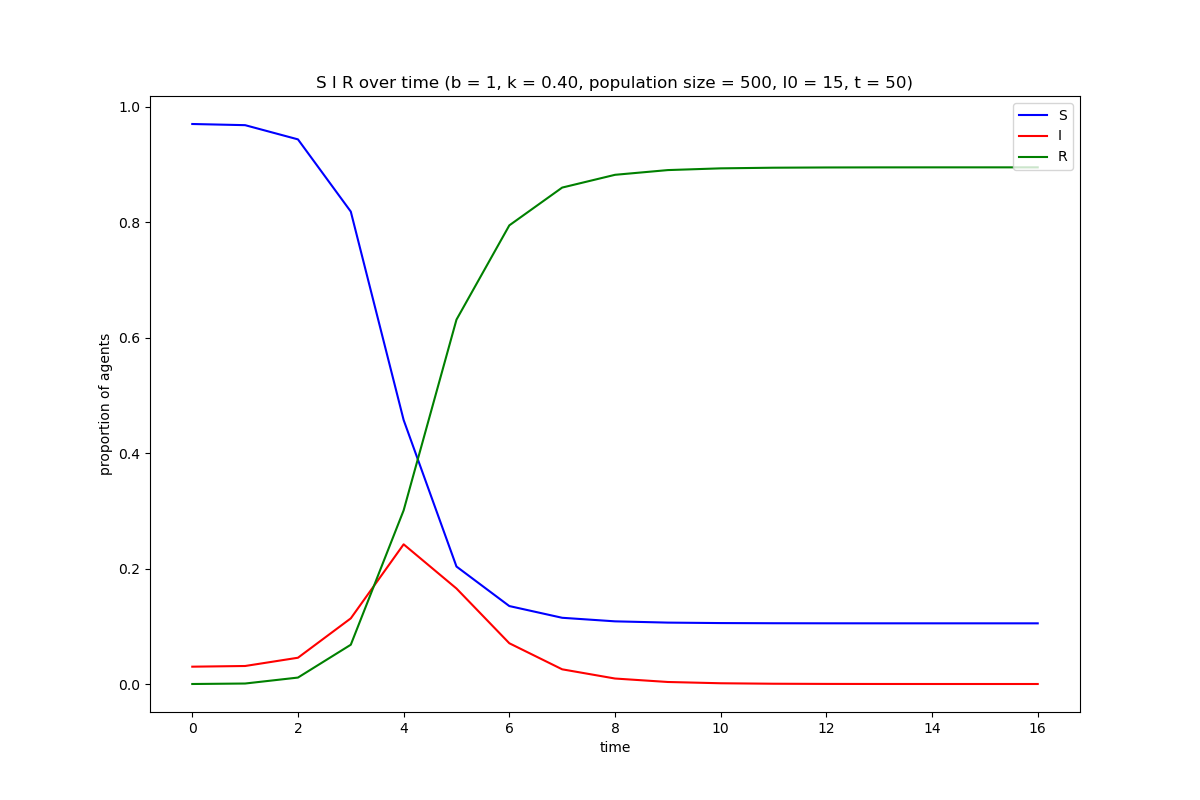
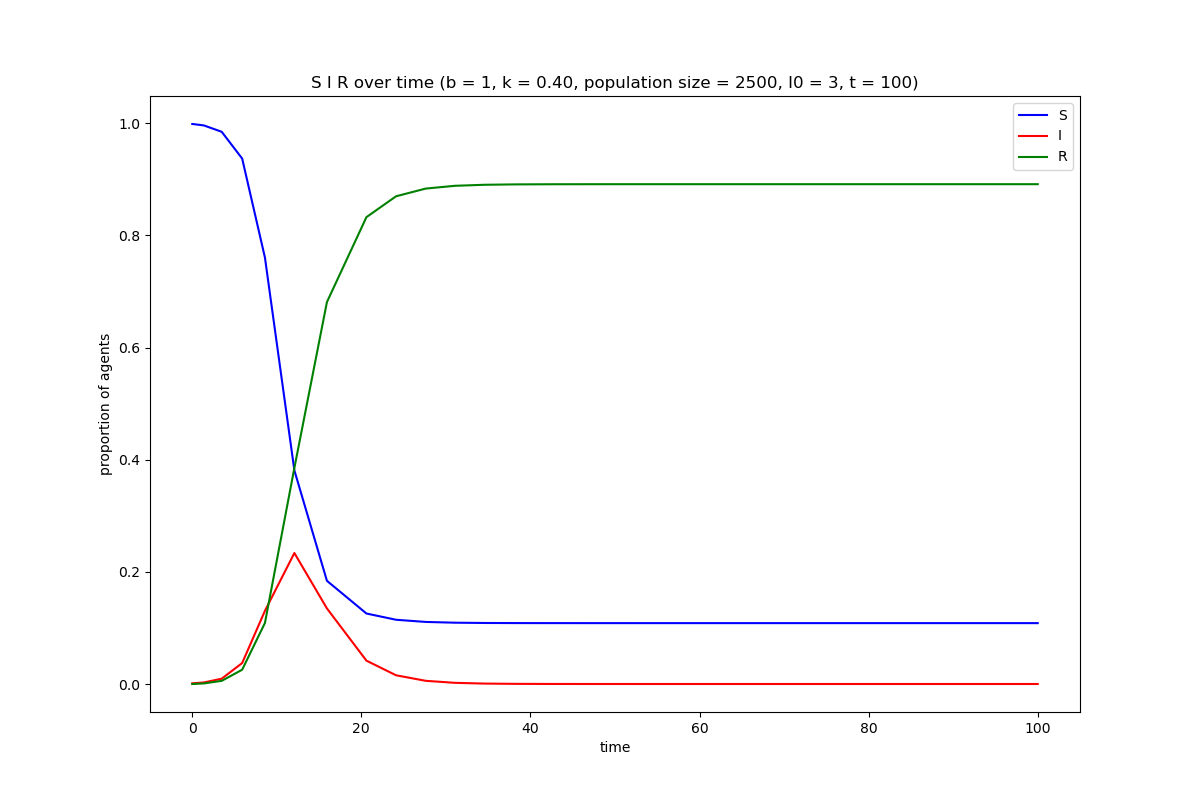
temp

diff --git a/Scripts/midterm_checkin_plots.py b/Scripts/midterm_checkin_plots.py
@@ -11,23 +11,25 @@ import matplotlib.pyplot as plt
 # fmt: on
 
 # parameters
-Population = 1000
-initial_infected = 10
+Population = 2500
+initial_infected = 3
 initial_proportion = initial_infected / Population
-time_span = 50
+time_span = 100
 
 
 def sim_ODE(i0, N, b, k, t):
     """
     returns array of arrays:
-        - first sub array is S
-        - second sub array is I
-        - third sub array is R
+        - first sub array is T
+        - second sub array is S
+        - third sub array is I
+        - fourthe sub array is R
     """
     sim = OdeSir(i0=i0, N=N, b=b, k=k)
     sim._infect(t=t)
     s, i, r = sim._give_values()
-    vals = np.array([s, i, r])
+    t = sim._give_time()
+    vals = np.array([t, s, i, r])
     return vals
 
 
@@ -40,17 +42,16 @@ f = sim_ODE(i0=initial_proportion, N=Population, b=1, k=0.3, t=time_span)
 g = sim_ODE(i0=initial_proportion, N=Population, b=1, k=0.35, t=time_span)
 h = sim_ODE(i0=initial_proportion, N=Population, b=1, k=0.4, t=time_span)
 
-
 # phase diagram for varied k using agent ODE model
 plt.figure(figsize=(12, 8))
-plt.plot(a[0], a[1], "blue")
-plt.plot(b[0], b[1], "red")
-plt.plot(c[0], c[1], "green")
-plt.plot(d[0], d[1], "yellow")
-plt.plot(e[0], e[1], "purple")
-plt.plot(f[0], f[1], "gray")
-plt.plot(g[0], g[1], "pink")
-plt.plot(h[0], h[1], "orange")
+plt.plot(a[1], a[2], "blue")
+plt.plot(b[1], b[2], "red")
+plt.plot(c[1], c[2], "green")
+plt.plot(d[1], d[2], "yellow")
+plt.plot(e[1], e[2], "purple")
+plt.plot(f[1], f[2], "gray")
+plt.plot(g[1], g[2], "pink")
+plt.plot(h[1], h[2], "orange")
 plt.legend(
     [
         "k=0.05",
@@ -75,9 +76,9 @@ plt.savefig("../doc/checkpoint/plots/PhasekODE.png")
 
 # S I R over time k = 0.05 using ODE model
 plt.figure(figsize=(12, 8))
-plt.plot(range(len(a[0])), a[0], "blue")
-plt.plot(range(len(a[0])), a[1], "red")
-plt.plot(range(len(a[0])), a[2], "green")
+plt.plot(a[0], a[1], "blue")
+plt.plot(a[0], a[2], "red")
+plt.plot(a[0], a[3], "green")
 plt.legend(["S", "I", "R"], loc="upper right")
 plt.xlabel("time")
 plt.ylabel("proportion of agents")
@@ -90,9 +91,9 @@ plt.savefig("../doc/checkpoint/plots/k05ODE.png")
 
 # S I R over time k = 0.40 using ODE model
 plt.figure(figsize=(12, 8))
-plt.plot(range(len(h[0])), h[0], "blue")
-plt.plot(range(len(h[0])), h[1], "red")
-plt.plot(range(len(h[0])), h[2], "green")
+plt.plot(h[0], h[1], "blue")
+plt.plot(h[0], h[2], "red")
+plt.plot(h[0], h[3], "green")
 plt.legend(["S", "I", "R"], loc="upper right")
 plt.xlabel("time")
 plt.ylabel("proportion of agents")
@@ -116,14 +117,14 @@ h = sim_ODE(i0=initial_proportion, N=Population, b=50, k=0.15, t=time_span)
 
 # phase diagram for varied b using agent ODE model
 plt.figure(figsize=(12, 8))
-plt.plot(a[0], a[1], "blue")
-plt.plot(b[0], b[1], "red")
-plt.plot(c[0], c[1], "green")
-plt.plot(d[0], d[1], "yellow")
-plt.plot(e[0], e[1], "purple")
-plt.plot(f[0], f[1], "gray")
-plt.plot(g[0], g[1], "pink")
-plt.plot(h[0], h[1], "orange")
+plt.plot(a[1], a[2], "blue")
+plt.plot(b[1], b[2], "red")
+plt.plot(c[1], c[2], "green")
+plt.plot(d[1], d[2], "yellow")
+plt.plot(e[1], e[2], "purple")
+plt.plot(f[1], f[2], "gray")
+plt.plot(g[1], g[2], "pink")
+plt.plot(h[1], h[2], "orange")
 plt.legend(
     ["b=1", "b=2", "b=3", "b=4", "b=5", "b=10", "b=20", "b=50"], loc="upper right"
 )
@@ -138,9 +139,9 @@ plt.savefig("../doc/checkpoint/plots/PhasebODE.png")
 
 # S I R over time b = 1 using ODE model
 plt.figure(figsize=(12, 8))
-plt.plot(range(len(a[0])), a[0], "blue")
-plt.plot(range(len(a[0])), a[1], "red")
-plt.plot(range(len(a[0])), a[2], "green")
+plt.plot(a[0], a[1], "blue")
+plt.plot(a[0], a[2], "red")
+plt.plot(a[0], a[3], "green")
 plt.legend(["S", "I", "R"], loc="upper right")
 plt.xlabel("time")
 plt.ylabel("proportion of agents")
@@ -153,9 +154,9 @@ plt.savefig("../doc/checkpoint/plots/b1ODE.png")
 
 # S I R over time b = 50 using ODE model
 plt.figure(figsize=(12, 8))
-plt.plot(range(len(h[0])), h[0], "blue")
-plt.plot(range(len(h[0])), h[1], "red")
-plt.plot(range(len(h[0])), h[2], "green")
+plt.plot(h[0], h[1], "blue")
+plt.plot(h[0], h[2], "red")
+plt.plot(h[0], h[3], "green")
 plt.legend(["S", "I", "R"], loc="upper right")
 plt.xlabel("time")
 plt.ylabel("proportion of agents")
@@ -179,14 +180,14 @@ h = sim_ODE(i0=initial_proportion * 25, N=Population, b=1, k=0.25, t=time_span)
 
 # phase diagram for varied I0 using agent ODE model
 plt.figure(figsize=(12, 8))
-plt.plot(a[0], a[1], "blue")
-plt.plot(b[0], b[1], "red")
-plt.plot(c[0], c[1], "green")
-plt.plot(d[0], d[1], "yellow")
-plt.plot(e[0], e[1], "purple")
-plt.plot(f[0], f[1], "gray")
-plt.plot(g[0], g[1], "pink")
-plt.plot(h[0], h[1], "orange")
+plt.plot(a[1], a[2], "blue")
+plt.plot(b[1], b[2], "red")
+plt.plot(c[1], c[2], "green")
+plt.plot(d[1], d[2], "yellow")
+plt.plot(e[1], e[2], "purple")
+plt.plot(f[1], f[2], "gray")
+plt.plot(g[1], g[2], "pink")
+plt.plot(h[1], h[2], "orange")
 plt.legend(
     [
         "I0={}".format(initial_infected),
@@ -211,9 +212,9 @@ plt.savefig("../doc/checkpoint/plots/PhaseI0ODE.png")
 
 # S I R over time I0 = initial_infected using ODE model
 plt.figure(figsize=(12, 8))
-plt.plot(range(len(a[0])), a[0], "blue")
-plt.plot(range(len(a[0])), a[1], "red")
-plt.plot(range(len(a[0])), a[2], "green")
+plt.plot(a[0], a[1], "blue")
+plt.plot(a[0], a[2], "red")
+plt.plot(a[0], a[3], "green")
 plt.legend(["S", "I", "R"], loc="upper right")
 plt.xlabel("time")
 plt.ylabel("proportion of agents")
@@ -226,9 +227,9 @@ plt.savefig("../doc/checkpoint/plots/I01ODE.png")
 
 # S I R over time  I0 = initial_infected*25 using ODE model
 plt.figure(figsize=(12, 8))
-plt.plot(range(len(h[0])), h[0], "blue")
-plt.plot(range(len(h[0])), h[1], "red")
-plt.plot(range(len(h[0])), h[2], "green")
+plt.plot(h[0], h[1], "blue")
+plt.plot(h[0], h[2], "red")
+plt.plot(h[0], h[3], "green")
 plt.legend(["S", "I", "R"], loc="upper right")
 plt.xlabel("time")
 plt.ylabel("proportion of agents")
